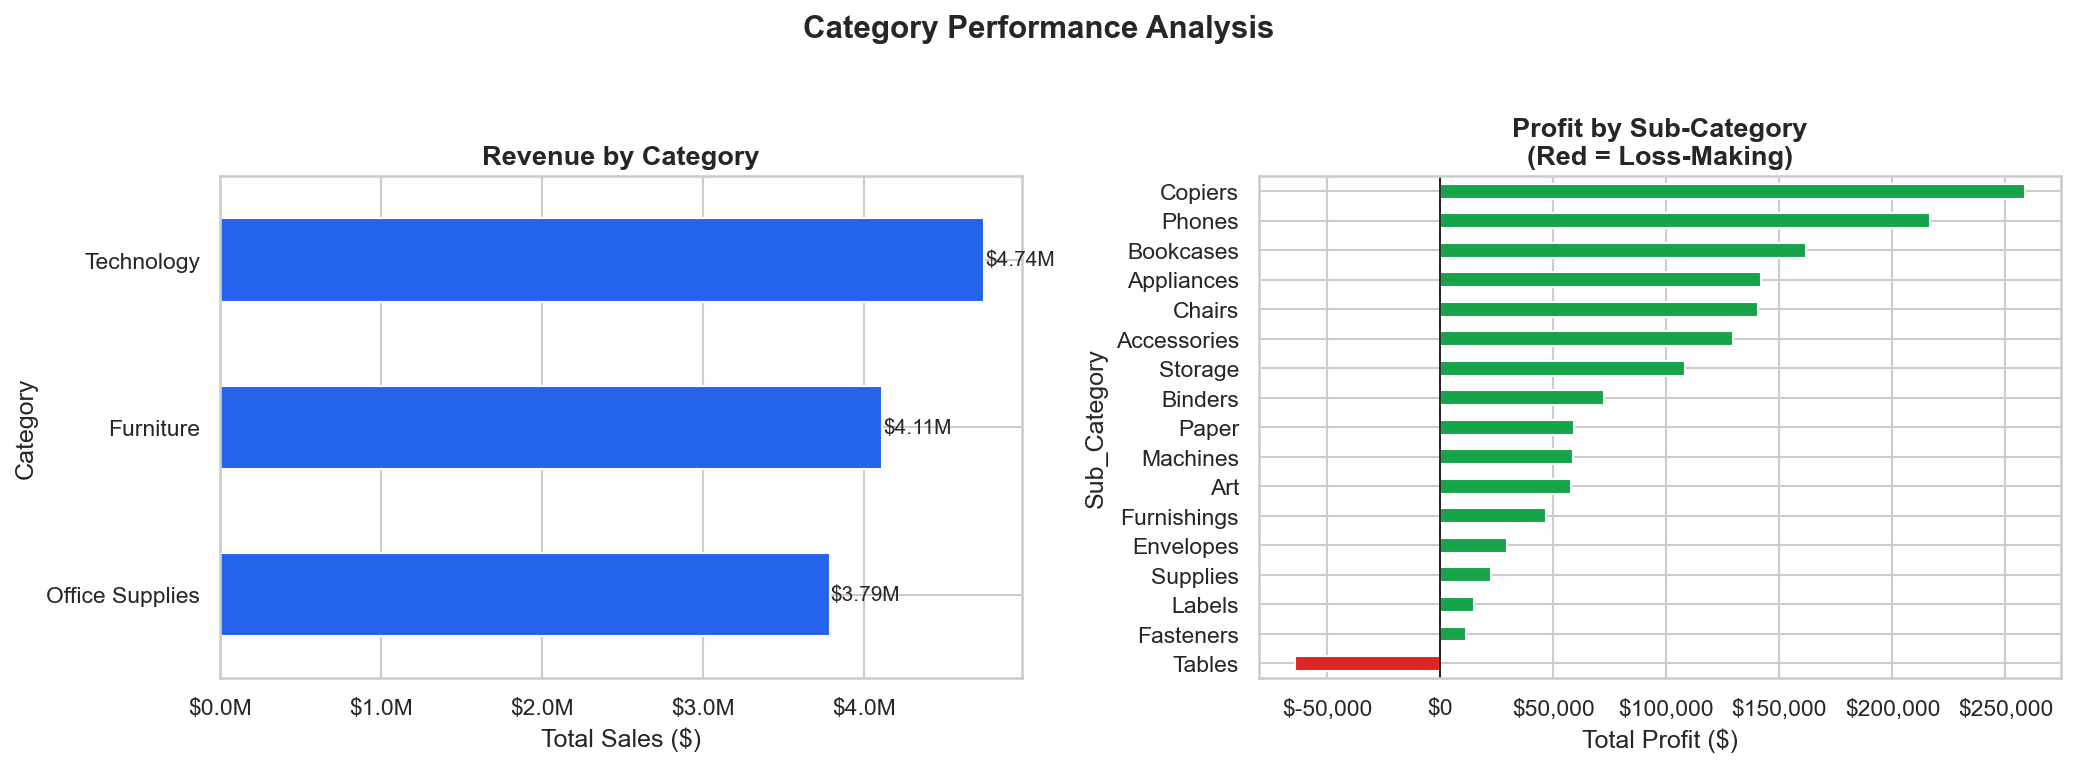
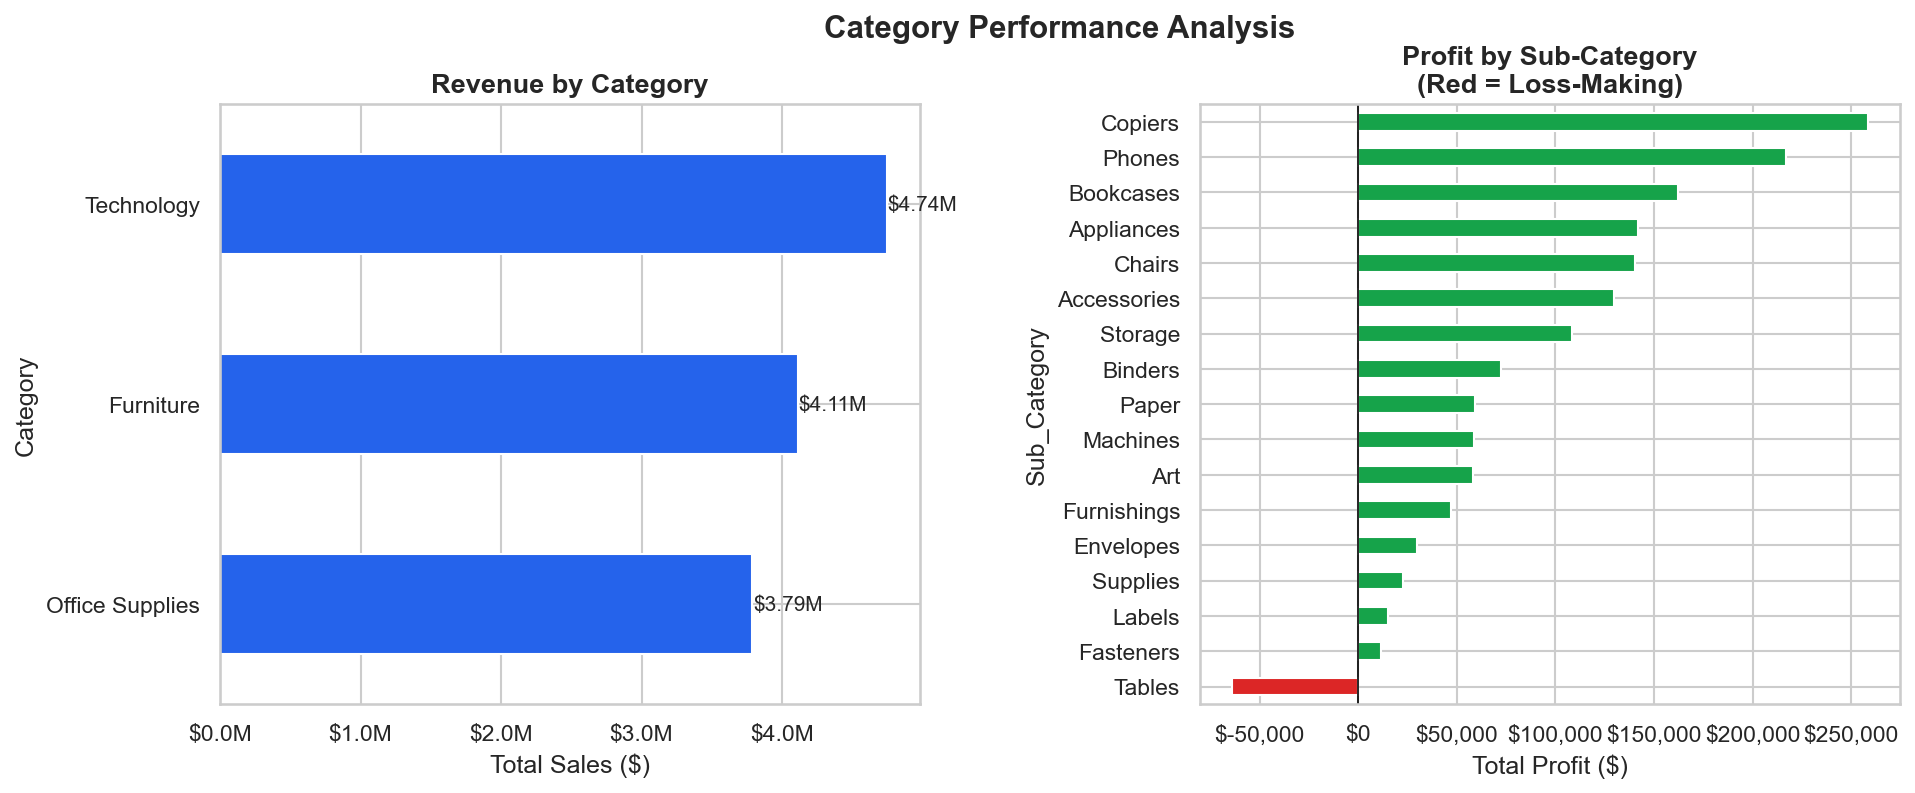
Made corrections in the visualisations

diff --git a/notebooks/04_ml_modeling.py b/notebooks/04_ml_modeling.py
@@ -1,0 +1,317 @@
+import pandas as pd
+import numpy as np
+import matplotlib.pyplot as plt
+import matplotlib.gridspec as gridspec
+import warnings
+import os
+
+warnings.filterwarnings("ignore")
+os.makedirs("../outputs/charts", exist_ok=True)
+os.makedirs("../outputs/models", exist_ok=True)
+
+print("=" * 60)
+print("MODULE 4: Machine Learning — Profit Margin Classifier")
+print("=" * 60)
+
+try:
+    df = pd.read_csv("../outputs/clean_data.csv", parse_dates=["Order_Date"])
+    print(f"\n✓ Loaded: {df.shape[0]:,} rows")
+except FileNotFoundError:
+    print("✗ Run 01_setup_and_eda.py first!")
+    exit()
+
+# ── IMPORT ML LIBRARIES ───────────────────────────────────
+try:
+    from sklearn.model_selection import train_test_split, cross_val_score, StratifiedKFold
+    from sklearn.preprocessing import LabelEncoder
+    from sklearn.metrics import (classification_report, confusion_matrix, accuracy_score, f1_score)
+    from sklearn.ensemble import RandomForestClassifier
+    import xgboost as xgb
+    print("✓ ML libraries loaded")
+except ImportError as e:
+    print(f"✗ Missing library: {e}")
+    print("  Run: pip install scikit-learn xgboost")
+    exit()
+
+# STEP 1: FEATURE ENGINEERING
+
+print("\n[1] Feature Engineering...")
+
+# Compute profit margin if not already there
+if "Profit_Margin" not in df.columns:
+    df["Profit_Margin"] = df["Profit"] / (df["Sales"] + 1e-9) * 100
+
+df["Margin_Class"] = pd.cut(
+    df["Profit_Margin"],
+    bins=[-float("inf"), 0, 10, float("inf")],
+    labels=["Low/Loss", "Medium", "High"]
+)
+
+# Show class distribution
+class_counts = df["Margin_Class"].value_counts()
+print("    Target class distribution:")
+for cls, cnt in class_counts.items():
+    pct = cnt / len(df) * 100
+    bar = "█" * int(pct / 2)
+    print(f"    {str(cls):<12}: {cnt:>6,} ({pct:.1f}%) {bar}")
+
+cat_features = []
+for col in ["Category", "Sub_Category", "Sub-Category", "Market", "Region",
+            "Segment", "Ship_Mode", "Order_Priority"]:
+    if col in df.columns:
+        cat_features.append(col)
+
+# Numerical columns 
+num_features = []
+for col in ["Discount", "Quantity", "Shipping_Cost", "Shipping_Days", "Sales"]:
+    if col in df.columns:
+        num_features.append(col)
+
+# Time features
+time_features = []
+for col in ["Year", "Month_Num", "Quarter", "Week_Num"]:
+    if col in df.columns:
+        time_features.append(col)
+
+all_features = cat_features + num_features + time_features
+print(f"\n    Categorical features: {cat_features}")
+print(f"    Numerical features : {num_features}")
+print(f"    Time features : {time_features}")
+print(f"    Total features : {len(all_features)}")
+
+
+# STEP 2: ENCODE CATEGORICAL FEATURES
+
+print("\n[2] Encoding categorical features...")
+
+df_ml = df[all_features + ["Margin_Class"]].dropna().copy()
+
+# Store encoders so we can reverse them later
+encoders = {}
+
+for col in cat_features:
+    if col in df_ml.columns:
+        le = LabelEncoder()
+        df_ml[col] = le.fit_transform(df_ml[col].astype(str))
+        encoders[col] = le
+        print(f"    ✓ {col}: {len(le.classes_)} unique values → 0 to {len(le.classes_)-1}")
+
+# Encode the target variable
+target_le = LabelEncoder()
+y = target_le.fit_transform(df_ml["Margin_Class"].astype(str))
+X = df_ml[all_features].values
+
+print(f"\n    Feature matrix X shape: {X.shape}   (rows × features)")
+print(f"    Target vector  y shape: {y.shape}")
+print(f"    Classes: {list(target_le.classes_)}")
+
+# STEP 3: TRAIN / TEST SPLIT
+print("\n[3] Splitting data: 80% train, 20% test...")
+
+X_train, X_test, y_train, y_test = train_test_split(
+    X, y, test_size=0.2, random_state=42, stratify=y
+)
+
+print(f"    Training set : {X_train.shape[0]:,} samples")
+print(f"    Test set : {X_test.shape[0]:,} samples")
+
+# STEP 4: TRAIN XGBOOST MODEL
+
+print("\n[4] Training XGBoost Classifier...")
+
+xgb_model = xgb.XGBClassifier(
+    n_estimators=200,        
+    max_depth=5,            
+    learning_rate=0.1,     
+    subsample=0.8,           
+    colsample_bytree=0.8,   
+    random_state=42,
+    use_label_encoder=False,
+    eval_metric="mlogloss",
+    verbosity=0
+)
+
+xgb_model.fit(X_train, y_train)
+print("    ✓ XGBoost model trained")
+
+# Predict on test set
+y_pred = xgb_model.predict(X_test)
+accuracy = accuracy_score(y_test, y_pred)
+f1 = f1_score(y_test, y_pred, average="weighted")
+
+print(f"\n    Test Accuracy : {accuracy:.1%}")
+print(f"    F1 Score : {f1:.3f}")
+
+# Detailed classification report
+print("\n    Per-class performance:")
+print(classification_report(y_test, y_pred,
+                            target_names=target_le.classes_,
+                            digits=3))
+
+# STEP 5: CROSS-VALIDATION
+
+print("\n[5] 5-Fold Cross-Validation...")
+
+cv = StratifiedKFold(n_splits=5, shuffle=True, random_state=42)
+cv_scores = cross_val_score(xgb_model, X, y, cv=cv, scoring="accuracy")
+
+print(f"    CV Accuracy scores : {[f'{s:.3f}' for s in cv_scores]}")
+print(f"    Mean Accuracy : {cv_scores.mean():.3f} ± {cv_scores.std():.3f}")
+
+# A consistent model has low std. High std = unreliable.
+if cv_scores.std() < 0.02:
+    print("    ✓ Very consistent (low variance across folds)")
+elif cv_scores.std() < 0.05:
+    print("    ✓ Reasonably consistent")
+else:
+    print("    ⚠ High variance — consider more data or simpler model")
+
+# STEP 6: COMPARE WITH RANDOM FOREST
+
+print("\n[6] Comparison: Random Forest vs XGBoost...")
+
+rf_model = RandomForestClassifier(n_estimators=100, random_state=42, n_jobs=-1)
+rf_model.fit(X_train, y_train)
+rf_pred = rf_model.predict(X_test)
+rf_acc = accuracy_score(y_test, rf_pred)
+rf_f1 = f1_score(y_test, rf_pred, average="weighted")
+
+print(f"    Random Forest — Accuracy: {rf_acc:.1%}  |  F1: {rf_f1:.3f}")
+print(f"    XGBoost       — Accuracy: {accuracy:.1%}  |  F1: {f1:.3f}")
+winner = "XGBoost" if accuracy >= rf_acc else "Random Forest"
+print(f"    Winner: {winner}")
+
+# STEP 7: FEATURE IMPORTANCE
+
+print("\n[7] Feature Importance Analysis...")
+
+importances = xgb_model.feature_importances_
+feat_importance = pd.Series(importances, index=all_features).sort_values(ascending=False)
+
+print("    Top 10 most important features:")
+for feat, imp in feat_importance.head(10).items():
+    bar = "█" * int(imp * 100)
+    print(f"    {feat:<20}: {imp:.4f} {bar}")
+
+# STEP 8: VISUALISATION — MODEL RESULTS
+
+print("\n[8] Creating model result charts...")
+
+fig = plt.figure(figsize=(16, 12))
+gs  = gridspec.GridSpec(2, 3, figure=fig, hspace=0.45, wspace=0.35)
+fig.suptitle("ML Model Results — Profit Margin Classifier", fontsize=15, fontweight="bold")
+
+ax1 = fig.add_subplot(gs[0, :2])   
+ax2 = fig.add_subplot(gs[0, 2])    
+ax3 = fig.add_subplot(gs[1, 0])   
+ax4 = fig.add_subplot(gs[1, 1])   
+ax5 = fig.add_subplot(gs[1, 2])   
+
+top_n = 12
+top_feats = feat_importance.head(top_n)
+colors_imp = plt.cm.Blues(np.linspace(0.4, 0.9, top_n))[::-1]
+bars = ax1.barh(range(top_n), top_feats.values, color=colors_imp, edgecolor="white")
+ax1.set_yticks(range(top_n))
+ax1.set_yticklabels(top_feats.index, fontsize=10)
+ax1.set_title("Feature Importance (XGBoost)", fontweight="bold")
+ax1.set_xlabel("Importance Score")
+for bar_obj, val in zip(bars, top_feats.values):
+    ax1.text(val + 0.002, bar_obj.get_y() + bar_obj.get_height() / 2,
+            f"{val:.4f}", va="center", fontsize=9)
+
+# --- Confusion Matrix ---
+cm = confusion_matrix(y_test, y_pred)
+im = ax2.imshow(cm, cmap="Blues")
+ax2.set_xticks(range(len(target_le.classes_)))
+ax2.set_yticks(range(len(target_le.classes_)))
+ax2.set_xticklabels(target_le.classes_, rotation=30, fontsize=9)
+ax2.set_yticklabels(target_le.classes_, fontsize=9)
+ax2.set_title("Confusion Matrix\n(diagonal = correct)", fontweight="bold")
+ax2.set_xlabel("Predicted")
+ax2.set_ylabel("Actual")
+# Add numbers inside cells
+for i in range(cm.shape[0]):
+    for j in range(cm.shape[1]):
+        color = "white" if cm[i,j] > cm.max() / 2 else "black"
+        ax2.text(j, i, str(cm[i,j]), ha="center", va="center",
+                fontsize=11, fontweight="bold", color=color)
+
+# --- Cross-Validation Scores ---
+ax3.bar(range(1, 6), cv_scores, color="#2563EB", alpha=0.8, edgecolor="white")
+ax3.axhline(cv_scores.mean(), color="#EA580C", linestyle="--", linewidth=2, label=f"Mean={cv_scores.mean():.3f}")
+ax3.set_title("5-Fold Cross-Validation\nAccuracy Scores", fontweight="bold")
+ax3.set_xlabel("Fold")
+ax3.set_ylabel("Accuracy")
+ax3.set_xticks(range(1, 6))
+ax3.set_ylim(0.7, 1.0)
+ax3.legend(fontsize=9)
+ax3.yaxis.set_major_formatter(plt.FuncFormatter(lambda x, _: f"{x:.0%}"))
+
+# --- Model Comparison ---
+models = ["Random Forest", "XGBoost"]
+accs = [rf_acc, accuracy]
+f1s = [rf_f1, f1]
+x_pos = np.arange(len(models))
+w = 0.35
+ax4.bar(x_pos - w/2, accs, w, label="Accuracy", color="#2563EB", alpha=0.8)
+ax4.bar(x_pos + w/2, f1s,  w, label="F1 Score",  color="#16A34A", alpha=0.8)
+ax4.set_xticks(x_pos)
+ax4.set_xticklabels(models, fontsize=9)
+ax4.set_ylim(0.7, 1.0)
+ax4.set_title("Model Comparison", fontweight="bold")
+ax4.legend(fontsize=9)
+ax4.yaxis.set_major_formatter(plt.FuncFormatter(lambda x, _: f"{x:.0%}"))
+
+# --- Prediction Distribution ---
+pred_classes = target_le.inverse_transform(y_pred)
+actual_classes = target_le.inverse_transform(y_test)
+pred_dist   = pd.Series(pred_classes).value_counts()
+actual_dist = pd.Series(actual_classes).value_counts()
+x_labels = pred_dist.index.tolist()
+x_pos2   = np.arange(len(x_labels))
+ax5.bar(x_pos2 - w/2, [actual_dist.get(l, 0) for l in x_labels], w,
+        label="Actual", color="#7C3AED", alpha=0.8)
+ax5.bar(x_pos2 + w/2, [pred_dist.get(l, 0) for l in x_labels], w,
+        label="Predicted", color="#0D9488", alpha=0.8)
+ax5.set_xticks(x_pos2)
+ax5.set_xticklabels(x_labels, fontsize=9)
+ax5.set_title("Actual vs Predicted\nClass Distribution", fontweight="bold")
+ax5.legend(fontsize=9)
+
+plt.savefig("../outputs/charts/11_ml_results.png", dpi=150, bbox_inches="tight")
+plt.close()
+print("    ✓ Saved: ../outputs/charts/11_ml_results.png")
+
+# STEP 9: BUSINESS INTERPRETATION
+
+print("\n[9] Business Interpretation...")
+print("─" * 55)
+print("\n  WHAT THE MODEL TELLS US:")
+print()
+
+top_feat = feat_importance.index[0]
+print(f"  1. '{top_feat}' is the #1 driver of profit margin.")
+print(f"     → Before approving any discount, check predicted margin class.")
+print()
+print(f"  2. The model is {accuracy:.0%} accurate at classifying orders.")
+print(f"     → In production: flag 'Low/Loss' predictions before shipping.")
+print()
+print(f"  3. Key strategy insight from data:")
+disc_col = "Discount" if "Discount" in df.columns else None
+if disc_col:
+    high_disc = df[df["Discount"] > 0.3]["Profit_Margin"].mean()
+    low_disc  = df[df["Discount"] <= 0.3]["Profit_Margin"].mean()
+    print(f"     Avg margin with discount >30%: {high_disc:.1f}%")
+    print(f"     Avg margin with discount ≤30%: {low_disc:.1f}%")
+    print(f"     → Never discount more than 30% (policy recommendation)")
+
+print()
+print("─" * 55)
+
+# Save feature importance to CSV
+feat_importance.to_csv("../outputs/models/feature_importance.csv", header=["Importance"])
+print("\n✓ Saved: ../outputs/models/feature_importance.csv")
+
+print("\n" + "=" * 60)
+print("✓ MODULE 4 COMPLETE — Machine Learning Model Trained and Evaluated")
+print("=" * 60)

diff --git a/notebooks/02_visualization.py b/notebooks/02_visualization.py
@@ -12,7 +12,7 @@ print("MODULE 2: Data Visualization")
 print("=" * 60)
 
 try:
-    df = pd.read_csv("../outputs/clean_data.csv", parse_dates=["Order_Date"])
+    df = pd.read_csv("../outputs/clean_data.csv", parse_dates=["Order_Date"], dtype={"Discount_Band": "str"})
     print(f"\n  Loaded clean data: {df.shape[0]:,} rows x {df.shape[1]} columns")
     print(f"  Columns available: {list(df.columns)}")
 except FileNotFoundError:
@@ -38,7 +38,7 @@ CAT_COLORS = [COLORS["blue"], COLORS["green"], COLORS["orange"],
 
 def save_chart(filename, title=""):
     path = f"../outputs/charts/{filename}"
-    plt.tight_layout()        
+    plt.subplots_adjust(left=0.1, right=0.9, top=0.9, bottom=0.1, hspace=0.4, wspace=0.4)        
     plt.savefig(path, dpi=150, bbox_inches="tight")
     plt.close()                  
     print(f"    Saved: {path}")

diff --git a/notebooks/01_setup_and_eda.py b/notebooks/01_setup_and_eda.py
@@ -242,5 +242,5 @@ for col in df.columns:
     print(f"    {col:<25} ({df[col].dtype})")
 
 print("\n" + "=" * 60)
-print("MODULE 1 COMPLETE")
+print("MODULE 1 COMPLETE - Setup & EDA done!")
 print("=" * 60)
